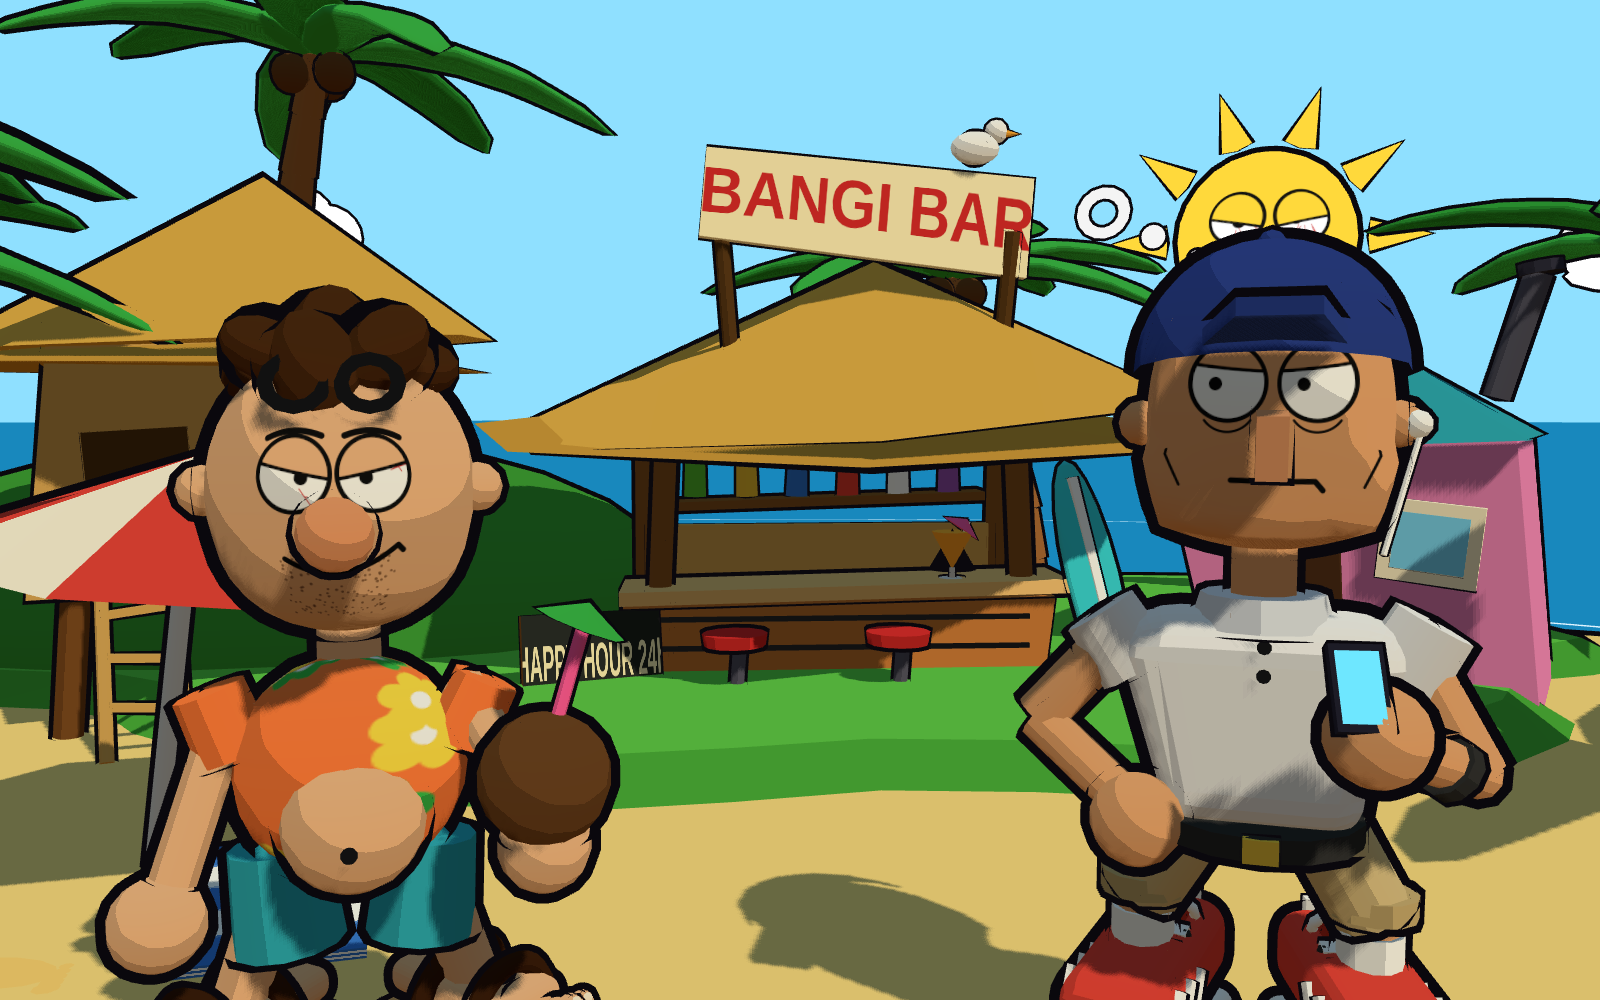
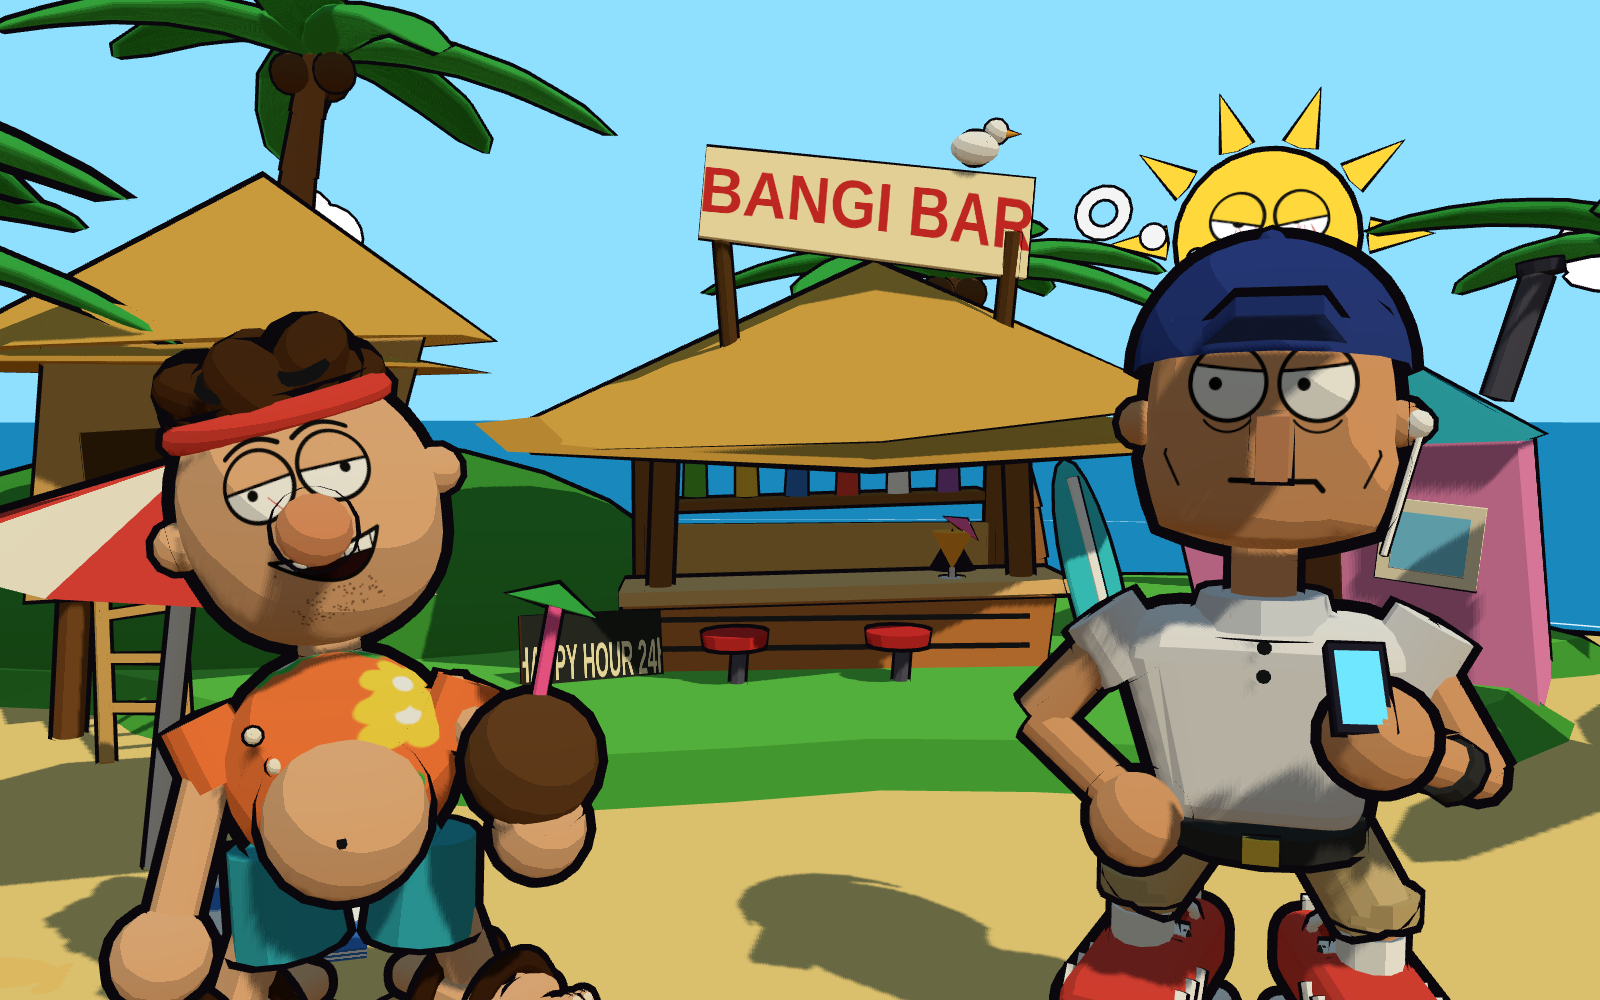
Stilprobe: Schluffi entspannter

Changed region(s): [[0.0312, 0.279, 0.4062, 1.0]]

diff --git a/stiltest/js/figures.js b/stiltest/js/figures.js
@@ -106,7 +106,7 @@ export function sneaker(color = 0xe8463a) {
 
 // ---------- Figur ----------
 export function figure(kind = 'schluffi') {
-  const g = new THREE.Group();
+  let g = new THREE.Group();
   const isSlob = kind === 'schluffi';
   const skin = isSlob ? 0xf0b98a : 0xe8a773;
   const stance = isSlob ? 0.6 : 0.48; // Fußabstand
@@ -146,7 +146,20 @@ export function figure(kind = 'schluffi') {
     }
   }
 
-  // Rumpf
+  // Rumpf — beim Schluffi hängt alles ab Hüfte in einer Gruppe, die zurückgelehnt und schief steht
+  const root = g;
+  let body = g;
+  if (isSlob) {
+    const pivot = new THREE.Group();
+    pivot.position.set(0, hipY - 0.1, 0);
+    pivot.rotation.set(-0.14, 0, 0.09);
+    body = new THREE.Group();
+    body.position.set(0, -(hipY - 0.1), 0);
+    pivot.add(body);
+    root.add(pivot);
+  }
+  const g0 = g;
+  g = body;
   let torso;
   if (isSlob) {
     const tg = new THREE.SphereGeometry(0.5, 16, 12);
@@ -167,8 +180,8 @@ export function figure(kind = 'schluffi') {
     torso.rotation.x = 0.12;
     g.add(torso);
     // Bauch guckt raus (Hemd offen)
-    const belly = toonMesh(new THREE.SphereGeometry(0.3, 14, 10), skin, { outline: 0.035 });
-    belly.position.set(0.02, hipY + 0.25, 0.33);
+    const belly = toonMesh(new THREE.SphereGeometry(0.34, 14, 10), skin, { outline: 0.035 });
+    belly.position.set(0.02, hipY + 0.22, 0.38);
     g.add(belly);
     const navel = toonMesh(new THREE.SphereGeometry(0.035, 6, 5), BLACK, { outline: 0, basic: true });
     navel.position.set(0, -0.05, 0.3);
@@ -198,7 +211,7 @@ export function figure(kind = 'schluffi') {
   }
 
   // Arme + Hände (groß)
-  const shoulderY = hipY + (isSlob ? 0.75 : 0.9);
+  const shoulderY = hipY + (isSlob ? 0.66 : 0.9);
   const handR = 0.2;
   const armColor = isSlob ? skin : skin;
   const sleeve = isSlob ? 0xff7f3f : 0xf4f4f8;
@@ -248,7 +261,7 @@ export function figure(kind = 'schluffi') {
   g.add(limb(V(0, neckY - 0.2, 0), V(0, neckY + 0.3, 0), 0.14, skin, { outline: 0.035 }));
   const head = new THREE.Group();
   head.position.set(0, neckY + 0.75, isSlob ? 0.12 : 0);
-  if (isSlob) head.rotation.x = 0.12;
+  if (isSlob) head.rotation.set(0.1, 0.05, 0.2);
   g.add(head);
 
   if (isSlob) {
@@ -275,9 +288,21 @@ export function figure(kind = 'schluffi') {
       h.rotation.z = a;
       head.add(h);
     }
+    // Stirnband mit Knoten hinten
+    const band = toonMesh(new THREE.TorusGeometry(0.43, 0.065, 8, 24), 0xe8463a, { outline: 0.03 });
+    band.position.set(0, 0.44, 0); band.rotation.set(Math.PI / 2 + 0.1, 0, 0.05); head.add(band);
+    for (const s of [-1, 1]) {
+      const tail = toonMesh(new THREE.BoxGeometry(0.08, 0.3, 0.05), 0xe8463a, { outline: 0.025 });
+      tail.position.set(s * 0.1, 0.28, -0.44); tail.rotation.z = s * 0.4; head.add(tail);
+    }
+    // Hemd schief geknöpft
+    for (let i = 0; i < 3; i++) {
+      const btn = toonMesh(new THREE.SphereGeometry(0.035, 6, 5), 0xfff5e0, { outline: 0.012 });
+      btn.position.set(-0.3 + i * 0.07, hipY + 0.62 - i * 0.14, 0.44 - i * 0.03); g.add(btn);
+    }
     for (const s of [-1, 1]) {
       const lens = toonMesh(new THREE.TorusGeometry(0.11, 0.03, 6, 12), BLACK, { outline: 0, basic: true });
-      lens.position.set(s * 0.14, 0.5, 0.42); lens.rotation.x = -0.6; head.add(lens);
+      lens.position.set(s * 0.14, 0.6, 0.3); lens.rotation.x = -0.9; head.add(lens);
     }
   } else {
     // Kopf: Kugel Richtung Würfel gezogen (kantiger Kiefer), Gesicht = gemaltes Decal
@@ -313,7 +338,7 @@ export function figure(kind = 'schluffi') {
     bud.position.set(0.58, -0.02, 0.06); head.add(bud);
     g.add(limb(V(0.6, neckY + 0.72, 0.05), V(0.45, neckY + 0.2, 0.2), 0.012, 0xffffff, { outline: 0.008 }));
   }
-  return g;
+  return g0;
 }
 
 // Namensschild unter der Figur (kleines Sandschild)

diff --git a/stiltest/js/faces.js b/stiltest/js/faces.js
@@ -77,22 +77,39 @@ function finish(c) {
 // Schluffi: verpeilt + selig — schwere, schräge Lider, Pupillen nach innen-oben, schiefes Grinsen, Stoppeln
 export function schluffiFace(skinCss) {
   const [c, ctx] = makeCanvas();
-  eye(ctx, 372, 330, 128, { lid: 0.48, lidTilt: 0.18, lidColor: skinCss, pupil: 24, px: 30, py: 14, veins: 3, seed: 3 });
-  eye(ctx, 652, 330, 128, { lid: 0.48, lidTilt: -0.18, lidColor: skinCss, pupil: 24, px: -30, py: 14, veins: 3, seed: 4 });
-  // entspannte, hochgezogene Brauen
-  strokePath(ctx, [[260, 215], [360, 160, 470, 200]], 22);
-  strokePath(ctx, [[554, 200], [664, 160, 764, 215]], 22);
+  // schwere, flache Lider; Pupillen auseinander und nach unten ins Leere
+  eye(ctx, 372, 330, 128, { lid: 0.5, lidTilt: -0.06, lidColor: skinCss, pupil: 20, px: -26, py: 30, veins: 3, seed: 3 });
+  eye(ctx, 652, 330, 128, { lid: 0.5, lidTilt: 0.06, lidColor: skinCss, pupil: 20, px: 34, py: 22, veins: 3, seed: 4 });
+  // hohe, runde, entspannte Brauen
+  strokePath(ctx, [[262, 205], [372, 120, 482, 195]], 20);
+  strokePath(ctx, [[542, 195], [652, 120, 762, 205]], 20);
   // Stoppeln am Kinn
   const rand = rng(9);
   ctx.fillStyle = 'rgba(80, 45, 20, 0.55)';
   for (let i = 0; i < 140; i++) {
     const x = 300 + rand() * 424, y = 600 + rand() * 300;
     if (Math.hypot(x - 512, y - 560) < 90) continue; // Platz für die 3D-Nase
+    if (x > 320 && x < 720 && y > 590 && y < 760) continue; // Platz für den Mund
     ctx.beginPath(); ctx.arc(x, y, 3.5 + rand() * 2.5, 0, Math.PI * 2); ctx.fill();
   }
-  // schiefes seliges Grinsen
-  strokePath(ctx, [[330, 625], [520, 750, 730, 585]], 20);
-  strokePath(ctx, [[730, 585], [752, 607]], 20);
+  // offenes, dümmlich-glückliches Grinsen mit Zahnlücke und Zunge
+  const mouth = () => {
+    ctx.beginPath(); ctx.moveTo(320, 600);
+    ctx.quadraticCurveTo(520, 640, 730, 586);
+    ctx.quadraticCurveTo(620, 880, 320, 600);
+    ctx.closePath();
+  };
+  ctx.save(); mouth(); ctx.clip();
+  ctx.fillStyle = '#2a0f0f'; ctx.fillRect(300, 560, 460, 260);
+  ctx.fillStyle = '#ff7b9c'; ctx.beginPath(); ctx.ellipse(570, 790, 130, 60, -0.15, 0, Math.PI * 2); ctx.fill();
+  ctx.fillStyle = '#ffffff'; ctx.fillRect(300, 560, 460, 95);
+  ctx.fillStyle = '#2a0f0f'; ctx.fillRect(492, 560, 40, 110); // Zahnlücke
+  ctx.strokeStyle = '#111111'; ctx.lineWidth = 8;
+  for (const x of [395, 445, 585, 640, 695]) { ctx.beginPath(); ctx.moveTo(x, 575); ctx.lineTo(x, 660); ctx.stroke(); }
+  ctx.beginPath(); ctx.moveTo(300, 655); ctx.lineTo(760, 655); ctx.stroke();
+  ctx.restore();
+  ctx.strokeStyle = '#111111'; ctx.lineWidth = 16; ctx.lineJoin = 'round';
+  mouth(); ctx.stroke();
   return finish(c);
 }
 

diff --git a/stiltest/README.md b/stiltest/README.md
@@ -49,6 +49,9 @@ Dann `http://localhost:8000/` öffnen. Ziehen = drehen, Rad = zoomen (OrbitContr
   steht gerade, Stegbretter mit Jitter aus einem festen Seed (das Standbild ist reproduzierbar), ein Brett fehlt.
 - **Proportionen:** Kopf etwa ein Drittel der Körperhöhe, Hände und Füße riesig. Die Füße sind nach außen gedreht,
   damit das Schuh-Profil auch von vorn lesbar ist.
+- **Haltung ohne Rig:** Beim Schluffi hängt alles ab Hüfte in einer Gruppe, die um die Hüfte leicht zurück und zur
+  Seite gekippt ist; Schultern tiefer, Bauch weiter raus, Kopf zur Seite geneigt. Dazu Stirnband und schief geknöpftes
+  Hemd. Der Turnschuh-Typ steht dagegen kerzengerade.
 - **Schuhe:** Sandale = Holzsohle in zwei Lagen, Fußblock, fünf Zehenkugeln mit Nägeln, zwei dunkle Riemchen
   (Halb-Tori). Turnschuh = roter Low-Top mit dicker weißer `RoundedBox`-Sohle, weißer Zehenkappe, drei Streifen je Seite,
   Schnürsenkeln mit Ösen, Schleife, Zunge und Fersenlasche; darüber Knöchel, weiße Socke und Chinos, die klar über dem
@@ -57,8 +60,9 @@ Dann `http://localhost:8000/` öffnen. Ziehen = drehen, Rad = zoomen (OrbitContr
   Pupillen, hautfarbene Lider mit Lidlinie (auf den Augapfel geclippt), Brauen und Mund als Striche, rote Äderchen,
   Stoppeln als Punktwolke mit Aussparung für die 3D-Nase. `faceDecal()` legt die Textur als vorderes Kugel-Segment
   (Radius +1 %, dieselbe Verformung wie der Kopf) über den Kopf, mit `polygonOffset` gegen Z-Fighting und `alphaTest`
-  statt Transparenz-Sortierung. Nasen, Ohren, Haare, Cap und Sonnenbrille bleiben 3D. Schluffi: schwere schräge Lider,
-  schiefes seliges Grinsen. Turnschuh-Typ: schmale Lider, V-Brauen, Tränensäcke, zusammengekniffener Mund, Blick zum
+  statt Transparenz-Sortierung. Nasen, Ohren, Haare, Cap und Sonnenbrille bleiben 3D. Schluffi: schwere, flache Lider,
+  hohe entspannte Brauen, Pupillen auseinander ins Leere, offenes dümmlich-glückliches Grinsen mit Zahnlücke und Zunge
+  (als gefüllte Form mit Clip gemalt). Turnschuh-Typ: schmale Lider, V-Brauen, Tränensäcke, zusammengekniffener Mund, Blick zum
   Schluffi. Die Sonne bekommt mit derselben Technik Schlafzimmeraugen, Äderchen, ein seliges Grinsen und einen
   Rauchkringel.
 
